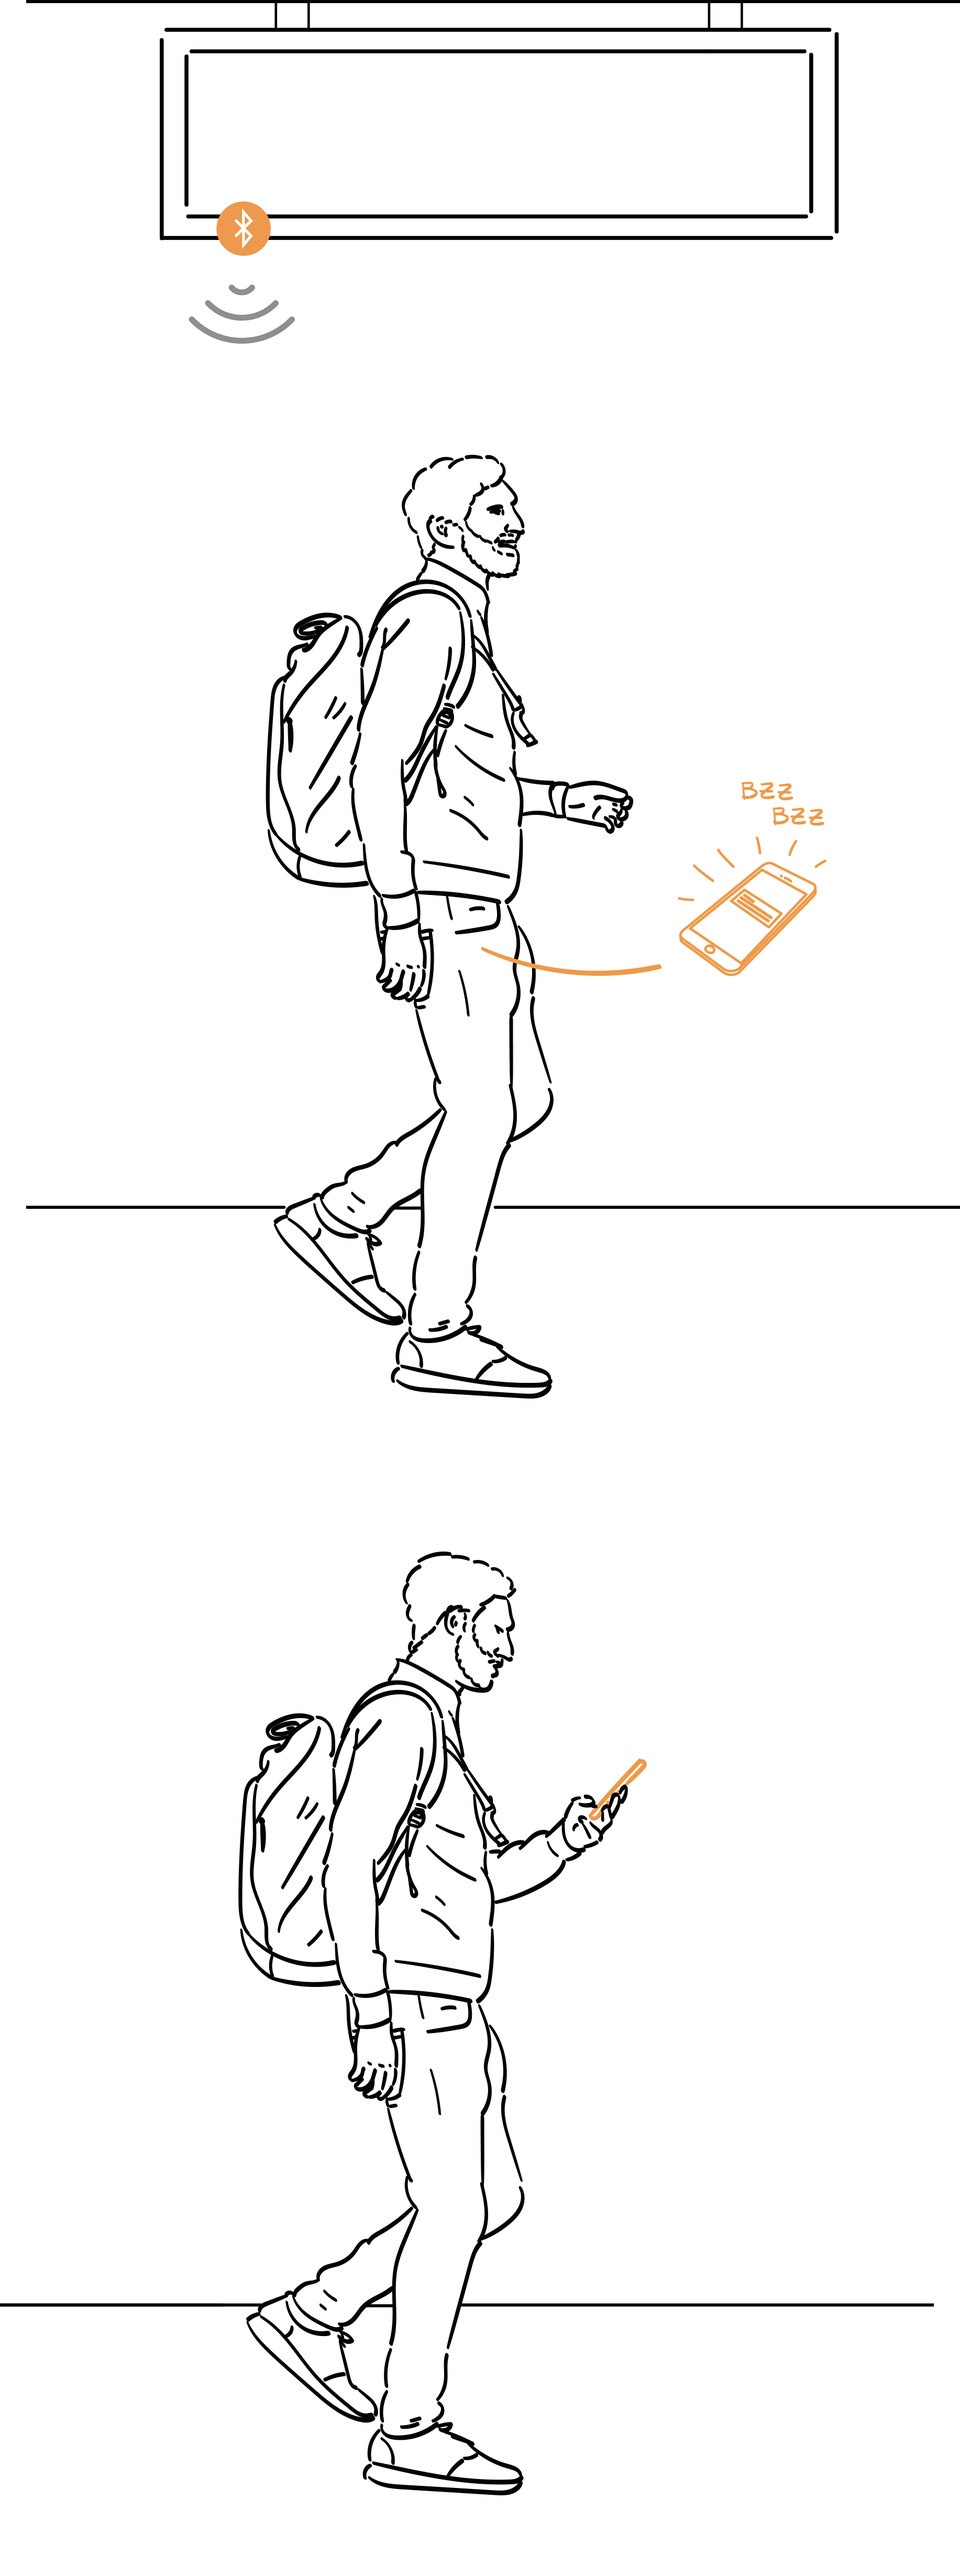
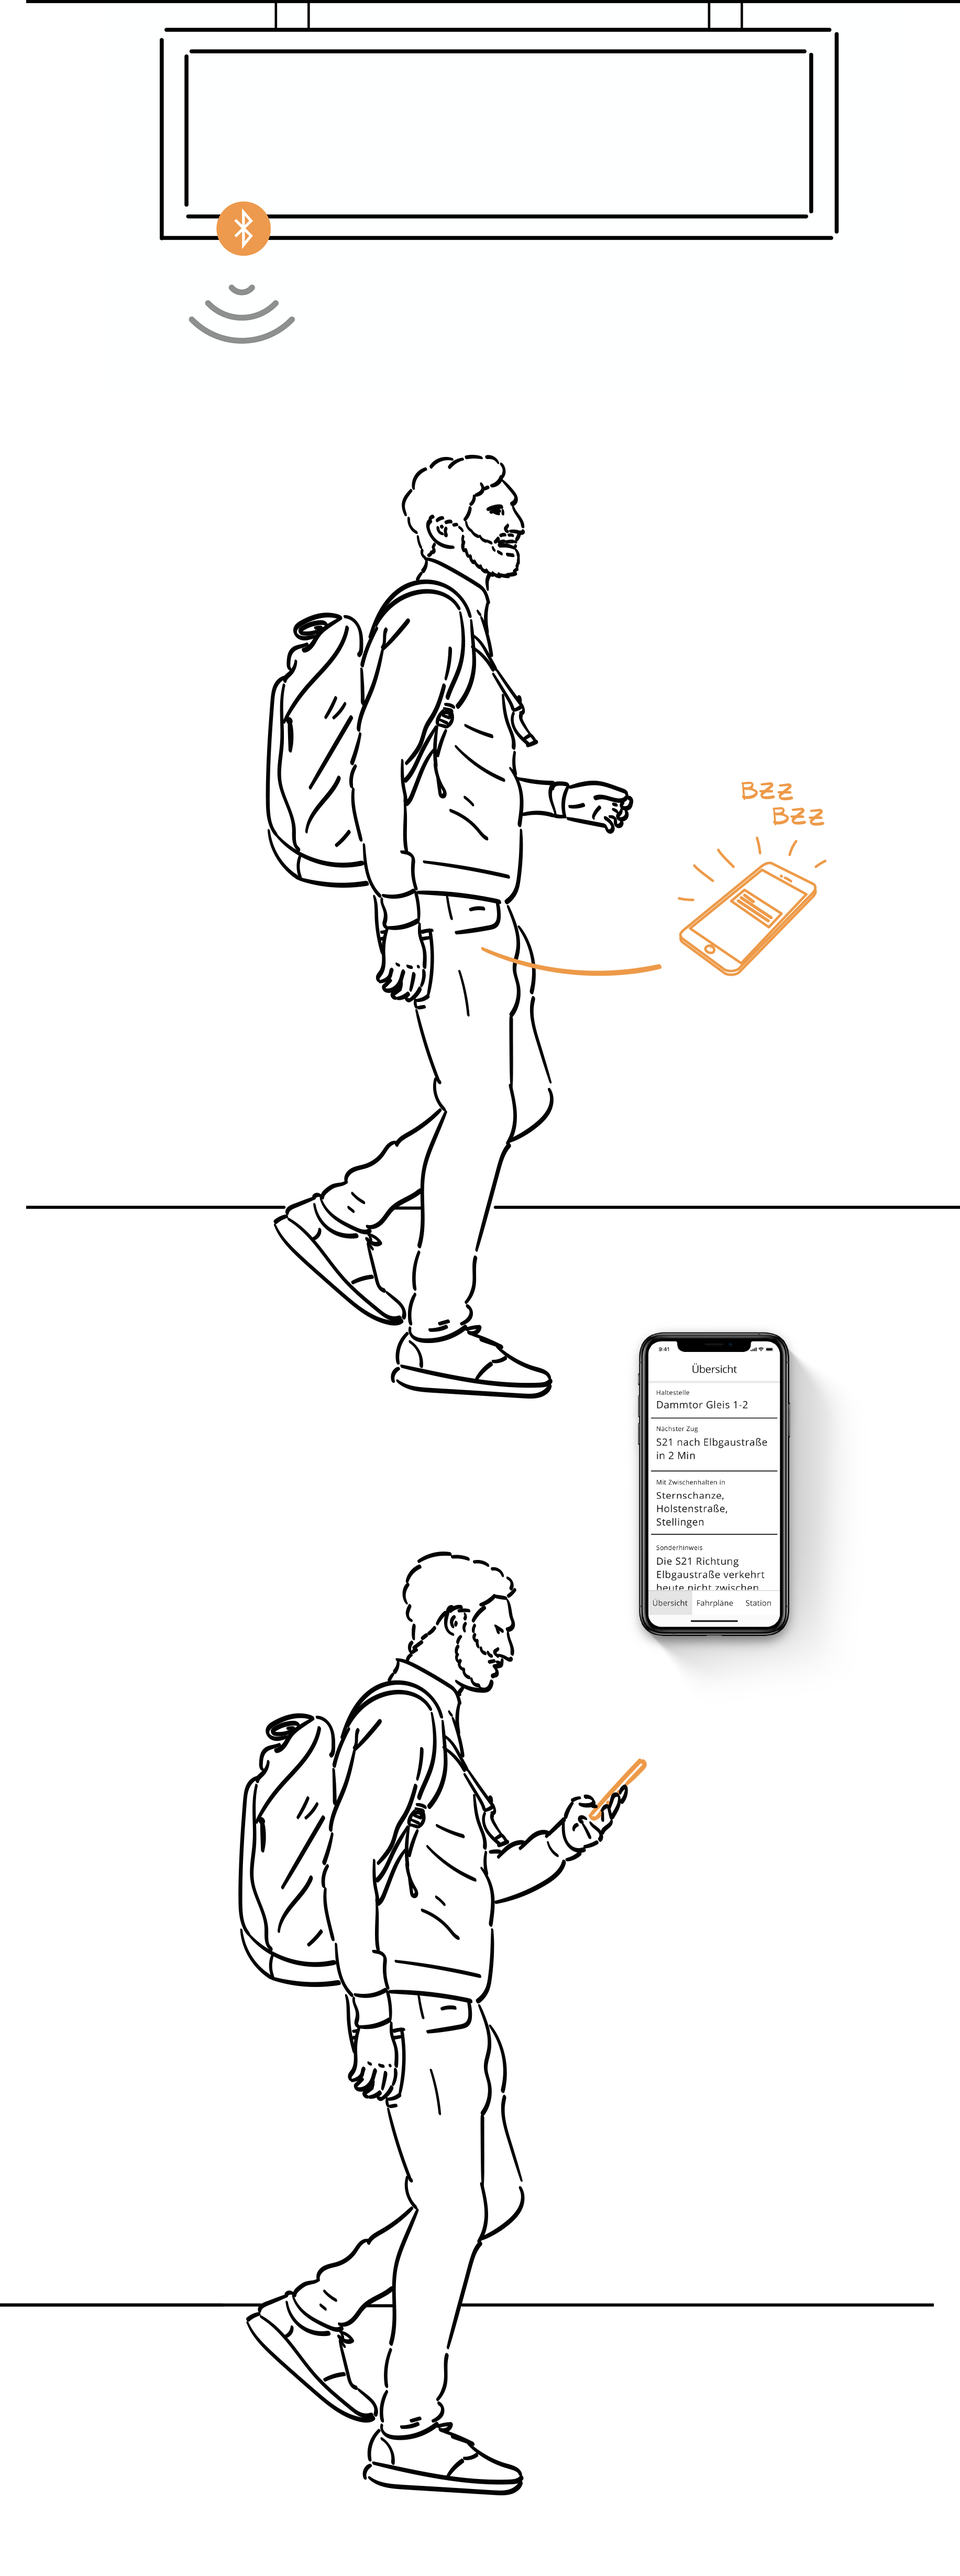
filled in text, small tweaks mobile alignment

Changed region(s): [[0.653, 0.498, 0.8707, 0.6536]]

diff --git a/index.html b/index.html
@@ -5,7 +5,7 @@
     <meta http-equiv="X-UA-Compatible" content="IE=edge">
     <meta name="viewport" content="width=device-width, initial-scale=1.0">
     <link rel='stylesheet' href='index.css' >
-    <title>A11y </title>
+    <title>A11Y - Accessibility</title>
 </head>
 <body>
     <div class="hero-image">
@@ -41,18 +41,14 @@
             </picture>               
             <div class="paragraph">
                 <h2 style="margin-top: 0;">UND SO FUNKTIONIERT ES</h2>
-                <p>Im Raum Hamburg gibt es über 40.000 sehbehinderten Menschen und 2.300 blinde 
-                Menschen. Für Fahrgäste mit einer Seheinschränkung sind die Anzeigen an 
-                Haltestelle jedoch nur unzureichend zu erkennen, obwohl aktuelle Informationen 
-                gerade für sie wichtig sind. </p>
-                <p>Das liegt vor allem an der Positionierung der Zuganzeiger, die sich an der Decke, 
-                über den Köpfen der Fahrgäste, befinden.
-                Die Inhalte sind somit außer Sichtweite für seheingeschränkte Fahrgäste und für sie 
-                oft schlicht nicht zu erkennen.</p>
-                <p>Wir wollen die Informationen vom Zugzielanzeiger auf Smartphones bringen. Dort 
-                können die Informationen einfach und strukturiert dargestellt werden und sind 
-                gleichzeitig für eine Sprachausgabe optimiert. So können sie fehlerfrei vorgelesen 
-                werden.</p>
+                <p>Durch einen Bluetooth Sender im Zuganzeiger können Fahrgäste eine Push-Nachricht auf ihr Smartphone bekommen,
+                     über welche sie die Echtzeit-Informationen  zum Bahnsteig abrufen können</p>
+                <p>Da durch das Bluetooth Signal die Position des Nutzers festgestellt werden kann, ist es möglich Informationen präzise darzustellen
+                    und Wegbeschreibungen zu Fahrstuhl oder ähnlichen Infrastrukturen zu bieten. 
+                </p>
+                <p>Eine Umsetzung abseits der neuen Zuganzeiger ist dich errichten von Accessibility-Points denkbar. Hier gibt es kostengünstige Möglichkeiten mit der selben Bluetooth-Technologie 
+                    und/oder NFC und QR-Codes die für den Ort relevanten Informationen zugänglich zu machen. So kann auch die Bushaltestelle auf dem Land barrierefrei werden.
+                </p>
             </div>
             <picture>
                 <source srcset="./media/Illu_1920_mobile.png" media="(max-width: 479px)">
@@ -60,10 +56,9 @@
             </picture>               
             <div class="kontakt" id='contact'>
                 <h2>NEHMEN SIE KONTAKT AUF</h2>
-                <p style="margin-top: 0;">Das liegt vor allem an der Positionierung der Zuganzeiger, die sich an der Decke, 
-                    über den Köpfen der Fahrgäste, befinden.
-                    Die Inhalte sind somit außer Sichtweite für seheingeschränkte Fahrgäste und für sie 
-                    oft schlicht nicht zu erkennen.</p>
+                <p style="margin-top: 0;">
+                    Falls Sie Fragen, Anmerkungen, Interesse haben schreiben Sie uns doch eine Nachricht über das Kontaktform oder direkt an <a href="mailto:mail@a11y.mobi">mail@a11y.mobi</a>. Wir freuen uns über jede Nachricht
+                </p>
                 <form
                     action="https://formspree.io/f/xrgrddjg"
                     method="POST"

diff --git a/index.css b/index.css
@@ -216,14 +216,15 @@ h4 {
         transform: translate(-50%, 0); 
         
     }
+
     
     .hero-text {
       text-align: center;
       top: 28vh;
       left: 0;
-      width: 100%;
+      width: 90%;
       min-width: 0;
-      margin: 0 2vh;
+      margin: 0 5%;
     }
     
     h1 {
@@ -234,8 +235,8 @@ h4 {
     }
     p {
         margin: 2vh 0   ;
-        font-size: 1.75vh;
-        line-height: 2.5vh;
+        font-size: 2.5vh;
+        line-height: 3.5vh;
     }
 
     .container {
@@ -245,12 +246,12 @@ h4 {
     }
         
     .paragraph {
-        margin: 0 2vh;
+        margin: 0 4vh;
     }
     
     
     h2 {
-        font-size: 2.5vh;
+        font-size: 3.5vh;
         margin: 4vh 0 3vh;
     }
     
@@ -264,7 +265,7 @@ h4 {
         flex-wrap: nowrap;
         flex-direction: column;
         justify-content: center;
-        padding: 0 2vh 8vh;
+        padding: 0 4vh 8vh;
     }
     
     
